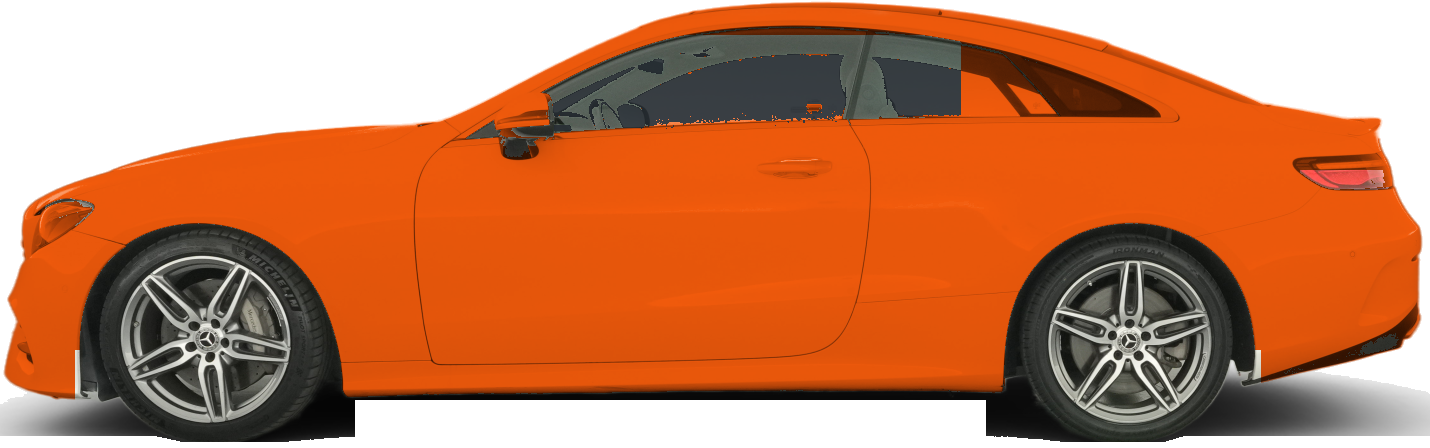
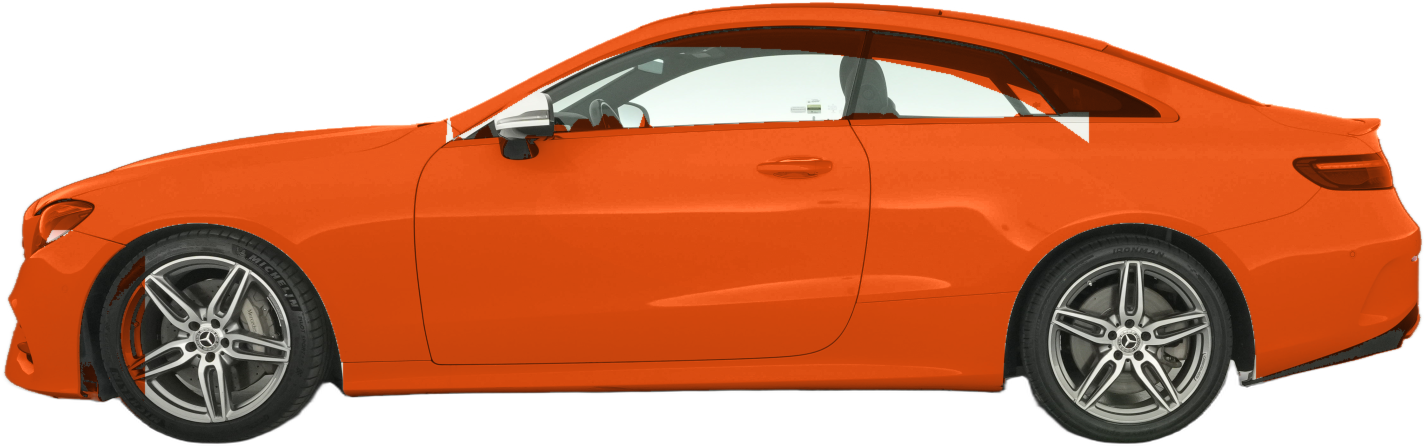
fix(garage): eliminate white crescent arcs on wheel arches and window sills with contour-calibrated paint mask and authentic metallic shading

diff --git a/frontend/src/lib/vehicleStyle.ts b/frontend/src/lib/vehicleStyle.ts
@@ -276,7 +276,7 @@ function parseHexRgb(hex: string): [number, number, number] | null {
   return null
 }
 
-export const VEHICLE_IMAGE_CACHE_VERSION = '20261104'
+export const VEHICLE_IMAGE_CACHE_VERSION = '20261104v2'
 
 /**
  * Resolves color-accurate, transparent cut-out photograph for the 2018 Mercedes-Benz E400 Coupe.
